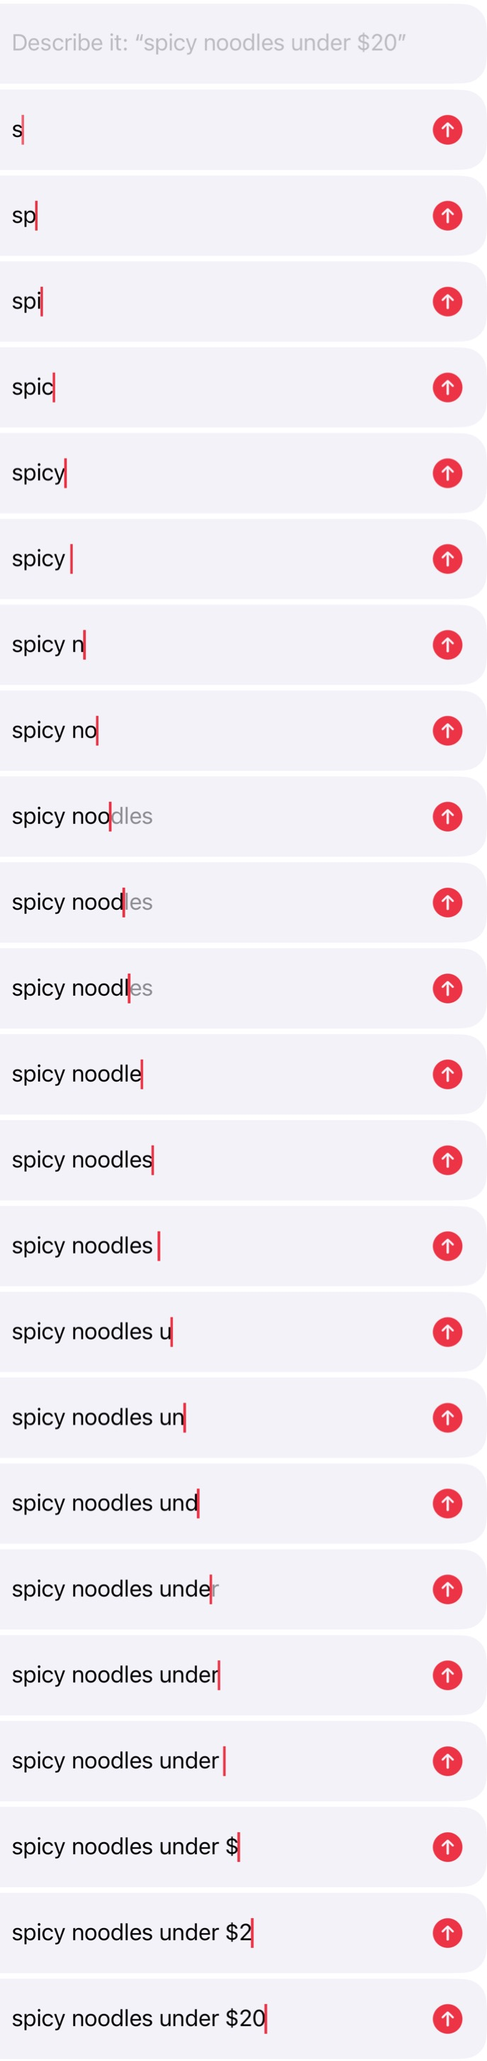
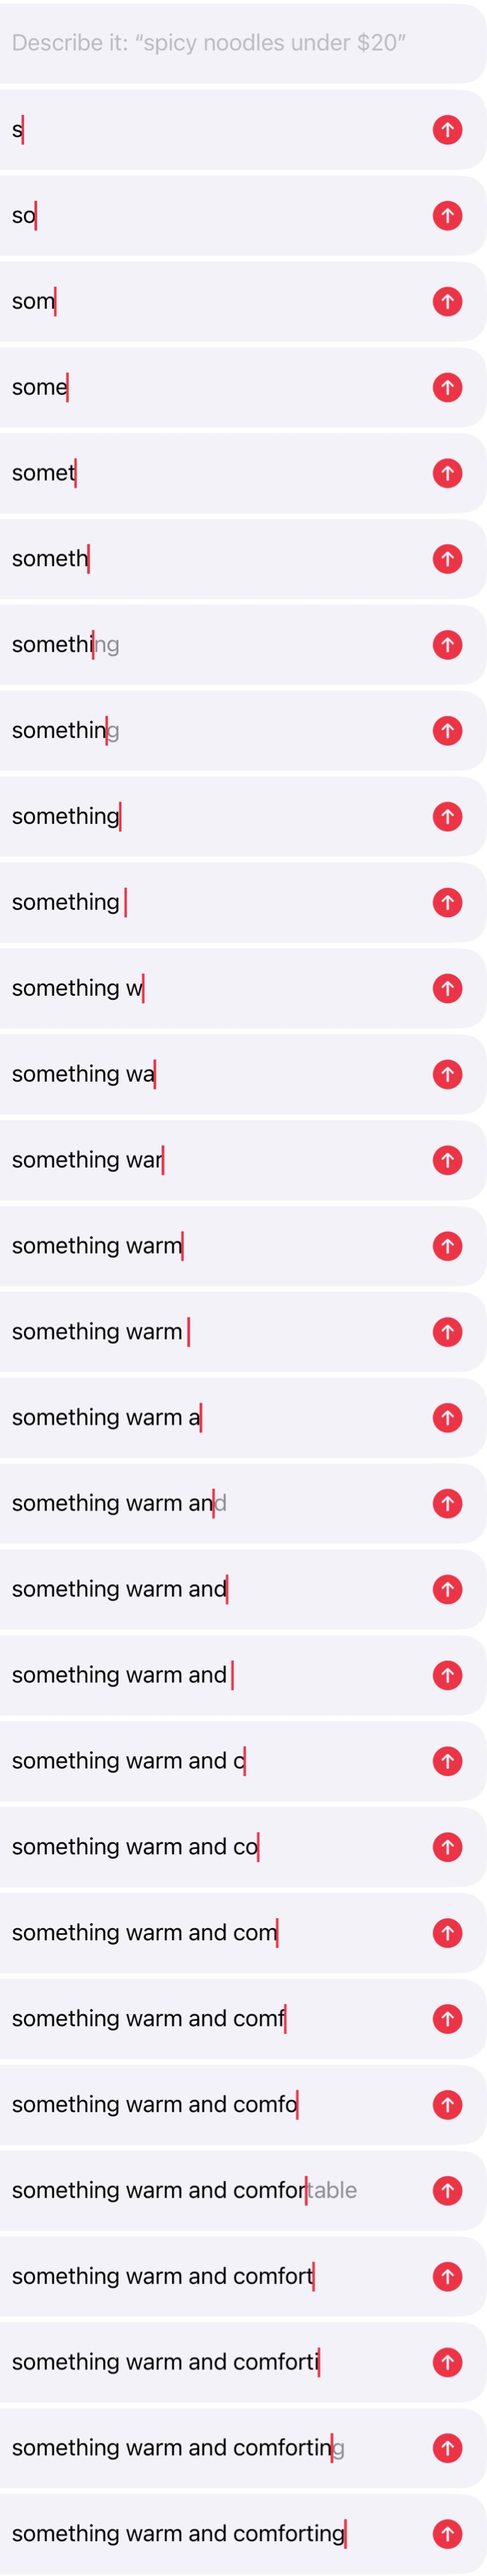
Search demo: type a mood query, show the settled results
The stage demo now types "something warm and comforting" and scrolls
through curries, ramen, braised beef and congee. The hero's example
queries no longer claim vegan search.

diff --git a/index.html b/index.html
@@ -10,7 +10,7 @@
 <meta property="og:image" content="https://usetoque.com/img/icon-light.png">
 <link rel="icon" href="/favicon.png">
 <link rel="apple-touch-icon" href="/apple-touch-icon.png">
-<link rel="stylesheet" href="style.css?v=8">
+<link rel="stylesheet" href="style.css?v=9">
 </head>
 <body class="home">
 <header class="site"><div class="wrap">
@@ -30,7 +30,7 @@
 </section>
 
 <section class="stage">
-  <div class="phone xl"><div class="demo" id="demo" role="img" aria-label="Typing spicy noodles under $20 into Toque and getting places with matching dishes and prices">
+  <div class="phone xl"><div class="demo" id="demo" role="img" aria-label="Typing something warm and comforting into Toque and getting curries, ramen, braised beef and congee from places nearby">
     <div class="d-home"><img src="img/demo/home.jpg" alt=""><div class="d-field"></div><span class="d-caret"></span></div>
     <div class="d-results"><img class="d-list" src="img/demo/results.jpg" alt=""><img class="d-back" src="img/demo/back.png" alt=""></div>
     <img class="d-kb" src="img/demo/kb.jpg" alt="">
@@ -93,7 +93,7 @@
 <script src="map.js" defer></script>
 <script>
 (function () {
-  var queries = ["spicy noodles under $20", "dumplings open now", "vegan brunch in Dickson", "ramen near Gungahlin"];
+  var queries = ["spicy noodles under $20", "dumplings open now", "something warm and comforting", "ramen near Gungahlin"];
   if (window.matchMedia("(prefers-reduced-motion: reduce)").matches) {
     document.querySelectorAll("video[autoplay]").forEach(function (v) { v.removeAttribute("autoplay"); v.pause(); v.controls = true; });
     return;

diff --git a/demo.js b/demo.js
@@ -6,7 +6,7 @@
   function $(c) { return demo.querySelector(c); }
   var home = $(".d-home"), field = $(".d-field"), caret = $(".d-caret"), kb = $(".d-kb"),
       results = $(".d-results"), list = $(".d-list"), touch = $(".d-touch");
-  var FRAMES = 24;
+  var FRAMES = 30;
 
   if (window.matchMedia("(prefers-reduced-motion: reduce)").matches) {
     results.style.transform = "none";
@@ -37,8 +37,8 @@
   function whenVisible() { return visible ? Promise.resolve() : new Promise(function (r) { wake = r; }); }
 
   var IOS = "cubic-bezier(.25, .9, .3, 1)";
-  // Pause after each typed character of "spicy noodles under $20".
-  var gaps = [0, 90, 80, 70, 95, 140, 85, 75, 70, 80, 75, 70, 90, 150, 80, 75, 85, 70, 90, 150, 110, 95, 90];
+  // Pause after each typed character of "something warm and comforting".
+  var gaps = [85, 75, 80, 70, 90, 75, 80, 70, 150, 85, 75, 80, 140, 80, 75, 140, 85, 75, 80, 70, 85, 75, 80, 70, 75, 80, 70, 90, 80];
 
   function reset() {
     home.style.transform = "";
@@ -69,9 +69,9 @@
       move(results, "translateX(100%)", "translateX(0)", 560, IOS)
     ]);
     await wait(900);
-    await move(list, "translateY(0)", "translateY(-18%)", 1300, "cubic-bezier(.3, .1, .15, 1)");
+    await move(list, "translateY(0)", "translateY(-17%)", 1300, "cubic-bezier(.3, .1, .15, 1)");
     await wait(650);
-    await move(list, "translateY(-18%)", "translateY(-37%)", 1500, "cubic-bezier(.3, .1, .15, 1)");
+    await move(list, "translateY(-17%)", "translateY(-36%)", 1500, "cubic-bezier(.3, .1, .15, 1)");
     await wait(1800);
     field.style.opacity = 0;
     await Promise.all([

diff --git a/style.css b/style.css
@@ -176,7 +176,7 @@ footer.site .brand img { width: 20px; height: 20px; }
 .phone .demo .d-home > img { height: 100%; }
 .d-results { transform: translateX(100%); background: #fff; box-shadow: -12px 0 40px rgba(0, 0, 0, .08); }
 .d-list { will-change: transform; }
-.d-field { position: absolute; left: 13.636%; top: 20.397%; width: 81.818%; height: 6.625%; background: url(img/demo/field.jpg) 0 0 / 100% 2400% no-repeat; opacity: 0; }
+.d-field { position: absolute; left: 13.636%; top: 20.397%; width: 81.818%; height: 6.625%; background: url(img/demo/field.jpg) 0 0 / 100% 3000% no-repeat; opacity: 0; }
 .d-caret { position: absolute; left: 15.6%; top: 22.55%; width: .55%; height: 2.35%; border-radius: 2px; background: #ec3446; opacity: 0; animation: blink 1s steps(1) infinite; }
 .phone .demo .d-back { left: 2.273%; top: 5.404%; width: 14.545%; }
 .phone .demo .d-kb { top: 63.947%; z-index: 4; transform: translateY(100%); will-change: transform; }
